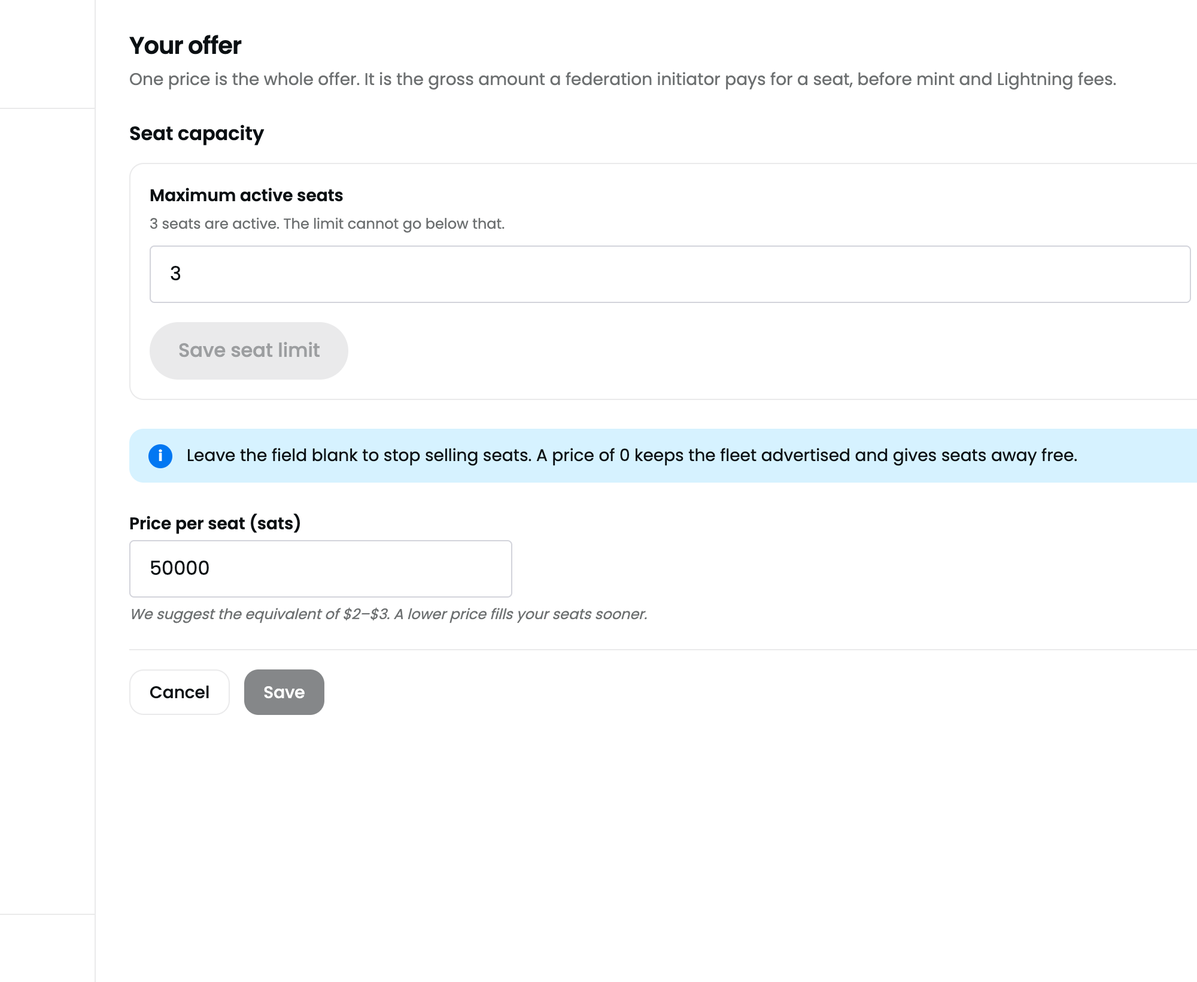
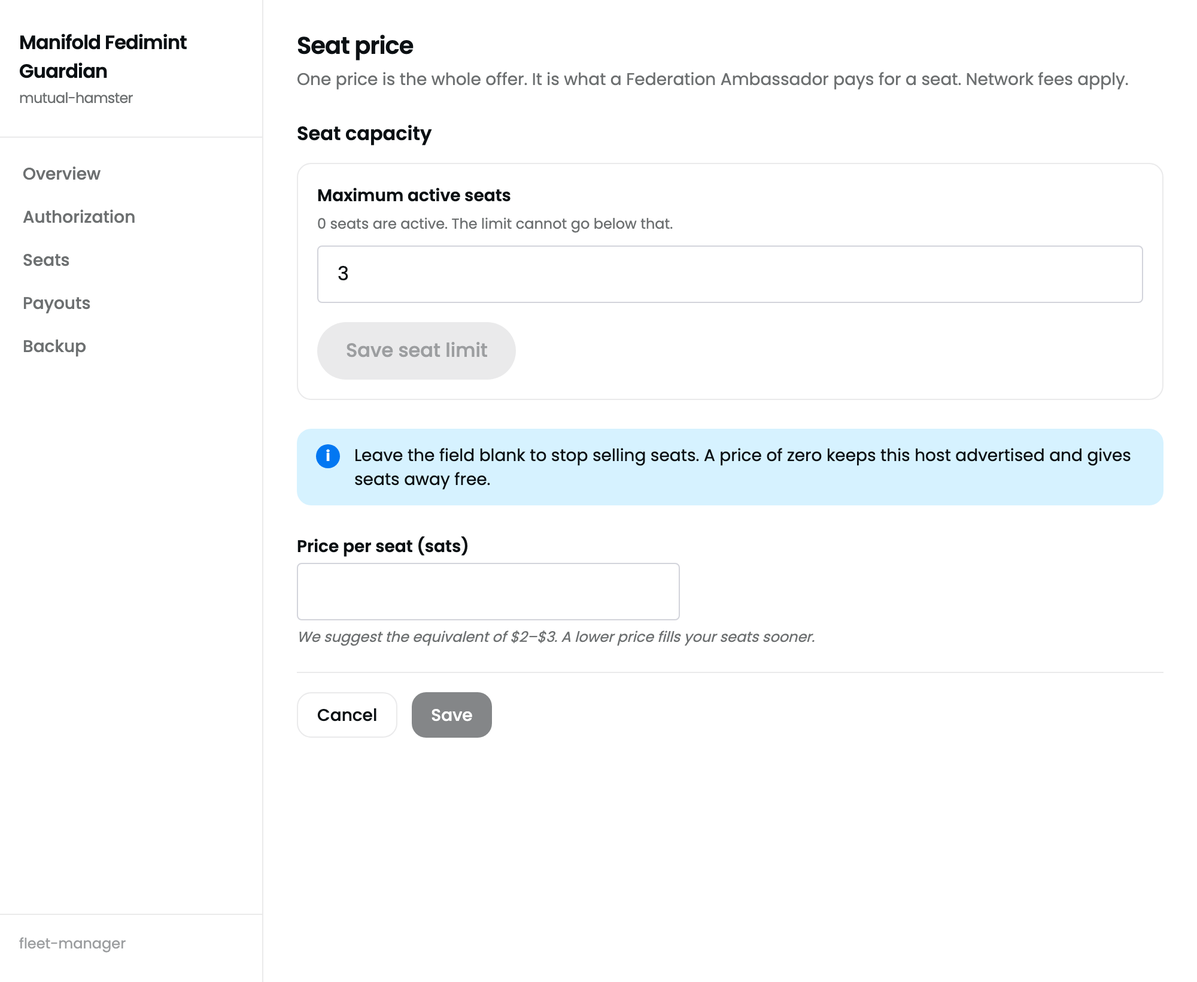
Add new images, fresh changes to guardian guide

diff --git a/guardian-guide.html b/guardian-guide.html
@@ -384,7 +384,7 @@ footer{padding:56px 0 72px;border-top:1px solid var(--line);margin-top:104px;}
   <a href="#box" class="os-minipc"><span class="num">02</span>Prepare the mini PC</a>
   <a href="#bitcoin"><span class="num">03</span>Bitcoin node</a>
   <a href="#install"><span class="num">04</span>Install</a>
-  <a href="#setup"><span class="num">05</span>Set up the fleet</a>
+  <a href="#setup"><span class="num">05</span>Set up the guardian</a>
   <a href="#discover"><span class="num">06</span>Get discovered</a>
   <a href="#earn"><span class="num">07</span>Earn</a>
   <a href="#withdraw"><span class="num">08</span>Withdraw</a>
@@ -403,11 +403,11 @@ footer{padding:56px 0 72px;border-top:1px solid var(--line);margin-top:104px;}
     <h2>Four things happen, in this order</h2>
     <p class="sec-sub">Manifold Fedimint Guardian is the guardian software behind Manifold. It runs one Fedimint guardian process per seat you sell, validates against a Bitcoin Core node on the same box (on StartOS, Bitcoin Knots works as well), and handles the selling for you. It is not a Lightning wallet, and it does not replace the Bitcoin node: it needs one.</p>
   </div>
-  <div class="call info rv"><svg viewBox="0 0 24 24" fill="none" stroke="currentColor" stroke-width="2"><circle cx="12" cy="12" r="9"/><path d="M12 8h.01M11 12h1v4h1"/></svg><div><b>Step zero: get your PeerBadge.</b> Ambassadors only see fleets that a PeerBadge holder at Trusted level or higher has authorized, and that holder is you: during setup you sign the authorization with your own badge. Get the badge before you buy hardware or start the node; the <a href="#faq">FAQ</a> says where to ask.</div></div>
+  <div class="call info rv"><svg viewBox="0 0 24 24" fill="none" stroke="currentColor" stroke-width="2"><circle cx="12" cy="12" r="9"/><path d="M12 8h.01M11 12h1v4h1"/></svg><div><b>Step zero: get your Fedi verification.</b> Ambassadors only see guardian hosts that a Fedi verification holder at Trusted level or higher has authorized, and that holder is you: during setup you sign the authorization with your own credential. Get verified before you buy hardware or start the node; the <a href="#faq">FAQ</a> says where to ask.</div></div>
   <div class="flow rv">
     <div class="f"><div class="n">1</div><h3>Prepare the box, start the node</h3><p><span class="os-minipc">umbrelOS on a mini PC with a 500 GB SSD, then Bitcoin Core.</span><span class="os-umbrel-only">Your Umbrel, then its Bitcoin Node app.</span><span class="os-startos">Your Start9 server on the latest StartOS 0.4 stable, then Bitcoin Core.</span> Its sync takes days, so it goes first and runs in the background.</p></div>
-    <div class="f"><div class="n">2</div><h3>Install and set up the guardian</h3><p>The guardian app installs from a store and holds a small fleet of guardian seats. Setup is a five screen wizard in your browser.</p></div>
-    <div class="f"><div class="n">3</div><h3>Get advertised, sell seats</h3><p>Once you have authorized your fleet with your PeerBadge and set a price, your open seats are announced on Nostr. An Ambassador in the Fedi app picks a set, pays once, and your box starts one guardian per seat sold.</p></div>
+    <div class="f"><div class="n">2</div><h3>Install and set up the guardian</h3><p>The guardian app installs from a store and holds a handful of guardian seats. Setup is a five screen wizard in your browser.</p></div>
+    <div class="f"><div class="n">3</div><h3>Get advertised, sell seats</h3><p>Once your host is approved with your Fedi verification and you have set a price, your open seats are announced on Nostr. An Ambassador in the Fedi app picks a set, pays once, and your box starts one guardian per seat sold.</p></div>
     <div class="f"><div class="n">4</div><h3>Earn and withdraw</h3><p>You receive the seat price up front and a share of that federation's transaction fees for as long as it runs. Both leave to a Lightning address from the Payouts page.</p></div>
   </div>
   <div class="call info rv"><svg viewBox="0 0 24 24" fill="none" stroke="currentColor" stroke-width="2"><circle cx="12" cy="12" r="9"/><path d="M12 8h.01M11 12h1v4h1"/></svg><div><b>Words used on this page.</b> A <b>seat</b> is one guardian slot you offer. A <b>Federation Ambassador</b> is the person creating a federation in the Fedi app (the code and the API still call them the initiator). The <b>dashboard</b> is the guardian software's own web page, served by your box. <b>The node</b> is the Bitcoin Core you run on the same box; the guardian validates against it.</div></div>
@@ -455,13 +455,13 @@ footer{padding:56px 0 72px;border-top:1px solid var(--line);margin-top:104px;}
     </div>
     <div class="card">
       <div class="ic"><svg viewBox="0 0 24 24" fill="none" stroke="currentColor" stroke-width="2"><path d="M12 3l8 4v5c0 5-3.5 8-8 9-4.5-1-8-4-8-9V7z"/><path d="M9 12l2 2 4-4"/></svg></div>
-      <h3>A PeerBadge, before anything else</h3>
-      <p>Ambassadors only see fleets whose key carries an authorization from a PeerBadge holder at Trusted level or higher, and that holder is you. The dashboard shows your fleet's public key as a QR code; you scan it with the credential app that holds your badge, and the app publishes the authorization. <b>Get your badge before you start</b>, ahead of hardware and the node; the <a href="#faq">FAQ</a> lists where to ask.</p>
+      <h3>Fedi verification, before anything else</h3>
+      <p>Ambassadors only see guardian hosts whose key carries an authorization from a Fedi verification holder at Trusted level or higher, and that holder is you. The dashboard shows your Manifold Fedimint Guardian ID as a QR code; you scan it with the Holder app that carries your credential, and the app publishes the authorization. <b>Get verified before you start</b>, ahead of hardware and the node; the <a href="#faq">FAQ</a> lists where to ask.</p>
     </div>
     <div class="card">
       <div class="ic"><svg viewBox="0 0 24 24" fill="none" stroke="currentColor" stroke-width="2"><path d="M4 20h16M6 16V8m6 8V4m6 12v-6"/></svg></div>
       <h3>Pen, paper, and patience</h3>
-      <p>The wizard shows a 12 word recovery phrase exactly once. Write it on paper before you continue: it is the entire identity of the fleet and its only backup. Plan about an hour hands on, the node sync running for days in the background, and however long the badge takes to arrive.</p>
+      <p>The wizard shows a 12 word recovery phrase exactly once. Write it on paper before you continue: it is the entire identity of this host and its only backup. Plan about an hour hands on, the node sync running for days in the background, and however long verification takes to arrive.</p>
     </div>
   </div>
 </section>
@@ -603,15 +603,11 @@ footer{padding:56px 0 72px;border-top:1px solid var(--line);margin-top:104px;}
     <li>
       <h3>Watch the sync, and know how to read it</h3>
       <p>The app's home screen shows the current <b>block height</b>, a <b>Synchronizing</b> percentage and the peers it is connected to. The percentage misleads: it is weighted by transactions, and early blocks hold almost none, so it sits under 1 percent for the first day while the block count climbs past hundreds of thousands, then races through the last years. Watch the block height instead and compare it with a public explorer such as <a href="https://mempool.space" target="_blank" rel="noopener">mempool.space</a>; when the two numbers match, the sync is done.</p>
-      <div class="shot"><img src="media/guardian-guide/bitcoin-node-gallery-1.jpg" alt="Umbrel's Bitcoin Node app, fully synchronized: block height, peers and latest blocks" width="2160" height="1350" loading="lazy"></div>
-      <p class="shot-cap"><b>What a synced node looks like.</b> Umbrel's Bitcoin Node app once it has caught up: Synchronized 100%, peer connections, latest blocks. Image from the app's store listing.</p>
     </li>
     <li>
       <h3>Know where the RPC details live</h3>
       <div class="path"><span>Bitcoin Node</span><i>&#8250;</i><span>Connect</span><i>&#8250;</i><span>Bitcoin Core RPC</span></div>
       <p>The guardian app declares Bitcoin Node as a dependency and reads the RPC connection from it, so you should not need to type anything. If the wizard ever asks, the Connect panel shows <b>Host</b>, <b>Port</b> (8332), <b>Username</b> and <b>Password</b>. The password is generated by the app and always visible here, so it cannot be lost, but a reinstall of the app generates a new one.</p>
-      <div class="shot"><img src="media/guardian-guide/bitcoin-node-gallery-2.jpg" alt="The Connect panel of Umbrel's Bitcoin Node app showing RPC username, password, host and port" width="2160" height="1350" loading="lazy"></div>
-      <p class="shot-cap"><b>The Connect panel.</b> RPC Details is the tab with the username, password, host and port. Image from the app's store listing.</p>
     </li>
     <li>
       <h3>Done when</h3>
@@ -721,7 +717,7 @@ footer{padding:56px 0 72px;border-top:1px solid var(--line);margin-top:104px;}
 <!-- 03 SETUP -->
 <section class="blk" id="setup">
   <div class="sec-head">
-    <div class="kicker">05 &#183; Set up the fleet</div>
+    <div class="kicker">05 &#183; Set up the guardian</div>
     <h2>The five screen setup wizard</h2>
     <p class="sec-sub">Setup happens once, in the dashboard. Every step is saved as you go, so a closed tab or a restarted box resumes where you left off. The same five screens on Umbrel and Start9. The dashboard still uses the technical name in a few of its own labels; read them as Manifold Fedimint Guardian.</p>
   </div>
@@ -729,41 +725,42 @@ footer{padding:56px 0 72px;border-top:1px solid var(--line);margin-top:104px;}
   <ol class="steps rv">
     <li>
       <span class="stepnum">SCREEN 1</span>
-      <h3>Choose: a new fleet, or recover one</h3>
-      <p>Two doors. <b>Start a new fleet</b> generates a fresh recovery phrase and starts with no seats. This is the usual choice. <b>Recover from your phrase</b> rebuilds a fleet whose original host is gone, from its 12 words, and brings its seats back with it.</p>
+      <h3>Choose: start fresh, or recover</h3>
+      <p>Two doors. <b>Start fresh</b> generates a fresh recovery phrase and starts with no seats. This is the usual choice. <b>Recover from your phrase</b> rebuilds a guardian host whose original box is gone, from its 12 words, and brings its seats back with it.</p>
       <p class="fine">Recovery is only offered here. Once a host is set up, the choice is made and cannot be revisited on that host.</p>
-      <div class="shot"><img src="media/guardian-guide/setup-doors.png" alt="Setup screen 1: Start a new fleet, or Recover from your phrase" width="1000" height="820" loading="lazy"></div>
+      <div class="shot"><img src="media/guardian-guide/setup-doors.png" alt="Setup screen 1: Start fresh, or Recover from your phrase" width="1000" height="820" loading="lazy"></div>
     </li>
     <li>
       <span class="stepnum">SCREEN 2</span>
       <h3>"Record your recovery phrase"</h3>
       <p>Click <b>Reveal phrase</b> and write the 12 words down on paper, in order. They are never stored in the browser, and there is no other backup: losing them loses every seat's guardian identity. Then click <b>I've written it down, continue</b>.</p>
-      <div class="call stop"><svg viewBox="0 0 24 24" fill="none" stroke="currentColor" stroke-width="2"><circle cx="12" cy="12" r="9"/><path d="M12 8v5M12 16h.01"/></svg><div><b>Do not photograph or type the phrase anywhere.</b> Anyone holding these words owns your fleet and everything it earns. You can reveal them again later from the Backup page if you need to check your copy.</div></div>
+      <div class="call stop"><svg viewBox="0 0 24 24" fill="none" stroke="currentColor" stroke-width="2"><circle cx="12" cy="12" r="9"/><path d="M12 8v5M12 16h.01"/></svg><div><b>Do not photograph or type the phrase anywhere.</b> Anyone holding these words owns your guardians and everything they earn. You can reveal them again later from the Backup page if you need to check your copy.</div></div>
       <div class="shot"><img src="media/guardian-guide/setup-phrase.png" alt="Setup screen 2: the twelve word recovery phrase" width="1000" height="820" loading="lazy"></div>
     </li>
     <li>
       <span class="stepnum">SCREEN 3</span>
-      <h3>"Get this fleet authorized"</h3>
-      <p>The screen shows a QR code and your fleet's <b>service Nostr public key</b> (a 64 character string). Ambassadors only see fleets whose key carries a PeerBadge authorization, so this step cannot be skipped.</p>
-      <p>Authorize it with your own PeerBadge: open the credential app that holds your badge, scan the QR code (or click <b>Copy the authorization request</b> and paste it into the app) and sign. Back in the wizard, click <b>Check now</b>. It does not poll in the background, so nothing happens until you click.</p>
+      <h3>"Get approved"</h3>
+      <p>The screen shows a QR code and your <b>Manifold Fedimint Guardian ID</b> (a 64 character string). Ambassadors only see guardian hosts whose ID carries a Fedi verification authorization, so this step cannot be skipped.</p>
+      <p>Approve it with your own Fedi verification: open the Holder app, scan the QR code (or click <b>Copy the authorization request</b> and paste it into the app) and sign. Back in the wizard, click <b>Check now</b>. It does not poll in the background, so nothing happens until you click.</p>
       <p class="fine">When the relay carries your authorization the status changes to "Authorization observed" and the wizard moves on to the terms by itself after two seconds.</p>
-      <div class="shot"><img src="media/guardian-guide/setup-authorization.png" alt="Setup screen 3: QR code and service Nostr public key, waiting for a holder authorization" width="1000" height="820" loading="lazy"></div>
+      <div class="shot"><img src="media/guardian-guide/setup-authorization.png" alt="Setup screen 3: QR code and Manifold Fedimint Guardian ID, waiting for an approval" width="1000" height="820" loading="lazy"></div>
     </li>
     <li>
       <span class="stepnum">SCREEN 4</span>
-      <h3>The terms</h3>
-      <p>The wizard shows the terms for running a Manifold guardian. Read them and accept to continue; the price step does not open until you have.</p>
+      <h3>"Accept the terms of service"</h3>
+      <p>The wizard shows the Fedi-Verified Guardian Terms of Service. Read them and click <b>Accept and continue</b>; the price step does not open until you have.</p>
+      <div class="shot"><img src="media/guardian-guide/setup-terms.png" alt="Setup screen 4: accept the terms of service" width="1000" height="820" loading="lazy"></div>
     </li>
     <li>
       <span class="stepnum">SCREEN 5</span>
       <h3>"Set your price"</h3>
       <p><b>Maximum active seats</b> is prefilled with the RAM based recommendation; lower it if the box does other work. <b>Price per seat (sats)</b> is the whole offer: the gross amount an Ambassador pays for one seat, before mint and Lightning fees. The dashboard suggests the equivalent of $2 to $3; a lower price fills seats sooner.</p>
       <p>Click <b>Finish setup</b>. Leaving the price blank finishes setup without selling anything; you can set a price any time from the Overview.</p>
-      <div class="call info"><svg viewBox="0 0 24 24" fill="none" stroke="currentColor" stroke-width="2"><circle cx="12" cy="12" r="9"/><path d="M12 7v5l3 2"/></svg><div><b>Expect "Loading…" for about two minutes after this step.</b> The fleet joins the network's shared setup payment federation, the one Ambassadors pay you through, and scans its history once. It only happens the first time.</div></div>
-      <div class="shot"><img src="media/guardian-guide/setup-price.png" alt="Setup screen 4: maximum active seats and price per seat" width="1000" height="820" loading="lazy"></div>
+      <div class="call info"><svg viewBox="0 0 24 24" fill="none" stroke="currentColor" stroke-width="2"><circle cx="12" cy="12" r="9"/><path d="M12 7v5l3 2"/></svg><div><b>Expect "Loading…" for about two minutes after this step.</b> The host joins the network's shared setup payment federation, the one Ambassadors pay you through, and scans its history once. It only happens the first time.</div></div>
+      <div class="shot"><img src="media/guardian-guide/setup-price.png" alt="Setup screen 5: maximum active seats and price per seat" width="1000" height="820" loading="lazy"></div>
     </li>
   </ol>
-  <div class="call ok rv"><svg viewBox="0 0 24 24" fill="none" stroke="currentColor" stroke-width="2"><path d="M20 6 9 17l-5-5"/></svg><div><b>You are set up.</b> The dashboard now opens on the Overview with six pages in the left menu: Overview, Authorization, Seats, Wallet, Payouts and Backup. Your fleet has a two word name (for example <i>cranked-bonobo</i>) that Ambassadors and support can recognise it by; it is shown top left and on the Backup page.</div></div>
+  <div class="call ok rv"><svg viewBox="0 0 24 24" fill="none" stroke="currentColor" stroke-width="2"><path d="M20 6 9 17l-5-5"/></svg><div><b>You are set up.</b> The dashboard now opens on the Overview with five pages in the left menu: Overview, Authorization, Seats, Payouts and Backup. Your host has a two word name (for example <i>cranked-bonobo</i>) that Ambassadors and support can recognise it by; it is shown top left and as <b>Host name</b> on the Backup page.</div></div>
   <div class="shot rv"><img src="media/guardian-guide/overview-fresh.png" alt="Overview right after setup: nothing sold yet" width="1000" height="820" loading="lazy"></div>
   <p class="shot-cap"><b>Overview right after setup.</b> Zero everywhere is normal. The next section is about getting from here to the first sale.</p>
 </section>
@@ -773,15 +770,15 @@ footer{padding:56px 0 72px;border-top:1px solid var(--line);margin-top:104px;}
   <div class="sec-head">
     <div class="kicker">06 &#183; Get discovered</div>
     <h2>Three conditions</h2>
-    <p class="sec-sub">A fleet is invisible to Ambassadors until it has an authorization, a price, and a wallet that can receive payment. The dashboard shows all three. Then the software publishes your advertisement and keeps it fresh on its own.</p>
+    <p class="sec-sub">A host is invisible to Ambassadors until it has an authorization, a price, and a payment federation it can be paid through. The dashboard shows all three. Then the software publishes your advertisement and keeps it fresh on its own.</p>
   </div>
   <ul class="check rv">
-    <li><b>Authorization observed.</b> Open <b>Authorization</b> in the left menu. It should list at least one holder under "Observed holders". This is the badge from screen 3.</li>
-    <li><b>A price is set.</b> The Overview's "Your offer" card shows a price per seat rather than "Not selling seats". Change it any time with <b>Change price</b>.</li>
-    <li><b>The wallet can receive.</b> Open <b>Wallet</b>. At least one payment federation should be listed. You did not add it and cannot remove it: membership follows the network's published setup payment policy, and the fleet joins automatically.</li>
+    <li><b>Authorization observed.</b> Open <b>Authorization</b> in the left menu. It should list at least one approver under "Approved by". This is the approval from screen 3.</li>
+    <li><b>A price is set.</b> The Overview's "Seat price" card shows a price per seat rather than "Not selling seats". Change it any time with <b>Change price and seats</b>.</li>
+    <li><b>A payment federation is listed.</b> Open <b>Payouts</b> and look under <b>Seat sales</b>. At least one payment federation should be listed as accepting payments. You did not add it and cannot remove it: membership follows the network's published setup payment policy, and the host joins automatically.</li>
     <li><b>Confirm.</b> The Overview banner reads <b>Advertised and healthy</b>. That is the whole check. Anyone can additionally see your advertisement (a kind 37701 Nostr event) published from your service Nostr key on the Manifold relay.</li>
   </ul>
-  <div class="call warn rv"><svg viewBox="0 0 24 24" fill="none" stroke="currentColor" stroke-width="2"><path d="M12 9v4M12 17h.01M10.3 3.9 2.6 17.5A2 2 0 0 0 4.3 20.5h15.4a2 2 0 0 0 1.7-3L13.7 3.9a2 2 0 0 0-3.4 0z"/></svg><div><b>Still not advertised after a few minutes?</b> The loop runs every 30 minutes, and a cycle that fires while the wallet is still opening (about three minutes after a start) is skipped silently. Wait until the Wallet page shows the federation, then restart the app once (<span class="os-umbrel">Umbrel: the app tile's <b>&#8943;</b> menu &#8250; <b>Restart</b></span><span class="os-startos">StartOS: <b>Stop</b> the service, then <b>Start</b> it again</span>); a restart publishes immediately.</div></div>
+  <div class="call warn rv"><svg viewBox="0 0 24 24" fill="none" stroke="currentColor" stroke-width="2"><path d="M12 9v4M12 17h.01M10.3 3.9 2.6 17.5A2 2 0 0 0 4.3 20.5h15.4a2 2 0 0 0 1.7-3L13.7 3.9a2 2 0 0 0-3.4 0z"/></svg><div><b>Still not advertised after a few minutes?</b> The loop runs every 30 minutes, and a cycle that fires while the wallet is still opening (about three minutes after a start) is skipped silently. Wait until Payouts lists the federation under Seat sales, then restart the app once (<span class="os-umbrel">Umbrel: the app tile's <b>&#8943;</b> menu &#8250; <b>Restart</b></span><span class="os-startos">StartOS: <b>Stop</b> the service, then <b>Start</b> it again</span>); a restart publishes immediately.</div></div>
 </section>
 
 <!-- 05 EARN -->
@@ -789,17 +786,17 @@ footer{padding:56px 0 72px;border-top:1px solid var(--line);margin-top:104px;}
   <div class="sec-head">
     <div class="kicker">07 &#183; Earn</div>
     <h2>What happens when someone buys your seat</h2>
-    <p class="sec-sub">You do nothing. Ambassadors pick, pay and form the federation from the Fedi app; the fleet accepts, starts a guardian and reports. Here is what you will see, and where the money comes from.</p>
+    <p class="sec-sub">You do nothing. Ambassadors pick, pay and form the federation from the Fedi app; the host accepts, starts a guardian and reports. Here is what you will see, and where the money comes from.</p>
   </div>
   <ol class="steps rv">
     <li>
       <h3>An Ambassador assembles a guardian set</h3>
-      <p>In the Fedi app the Ambassador opens Wallets, taps Create, and the app assembles a set of guardians from advertised fleets: cheapest first, then most free slots. One Ambassador buys at most one seat from your fleet per federation.</p>
+      <p>In the Fedi app the Ambassador opens Wallets, taps Create, and the app assembles a set of guardians from advertised guardian hosts: cheapest first, then most free slots. One Ambassador buys at most one seat from your host per federation.</p>
     </li>
     <li>
       <h3>They pay once, for the whole set</h3>
-      <p>The Ambassador pays the total in ecash through the shared setup payment federation. Your fleet receives your seat price, gross, before mint and Lightning fees. Every offered seat accepts automatically once a valid payment lands; there is no approval step and no "create seat" button on your side.</p>
-      <p class="fine">The Overview counts this as an accepted payment claim, which is not yet the same as a settled payment. The fleet reconciles the claim in the background and the Wallet balance follows.</p>
+      <p>The Ambassador pays the total in ecash through the shared setup payment federation. Your host receives your seat price, gross, before mint and Lightning fees. Every offered seat accepts automatically once a valid payment lands; there is no approval step and no "create seat" button on your side.</p>
+      <p class="fine">The Overview counts this as an accepted payment claim, which is not yet the same as a settled payment. The host reconciles the claim in the background and the Held in federations tile follows.</p>
     </li>
     <li>
       <h3>A seat appears and forms the federation</h3>
@@ -812,7 +809,7 @@ footer{padding:56px 0 72px;border-top:1px solid var(--line);margin-top:104px;}
     </li>
   </ol>
   <div class="shot rv"><img src="media/guardian-guide/overview-earnings.png" alt="Overview with seat sales and guardian fees over several days" width="1000" height="993" loading="lazy"></div>
-  <p class="shot-cap"><b>Overview with revenue.</b> The four tiles are Wallet balance, Earned all time, Seat sales and Guardian fees. Everything is gross. The Earnings list groups seat sales and fee remittances by day. A dash means the fleet could not read that figure yet, not that it is zero.</p>
+  <p class="shot-cap"><b>Overview with revenue.</b> The four tiles are Held in federations, Earned all time, Seat sales all time and Guardian fees all time. Everything is gross. The Earnings list groups seat sales and fee remittances by day. A dash means the host could not read that figure yet, not that it is zero.</p>
   
 </section>
 
@@ -820,31 +817,31 @@ footer{padding:56px 0 72px;border-top:1px solid var(--line);margin-top:104px;}
 <section class="blk" id="withdraw">
   <div class="sec-head">
     <div class="kicker">08 &#183; Withdraw</div>
-    <h2>Payouts: one destination, two kinds of revenue</h2>
-    <p class="sec-sub">Payouts is the only page where money leaves the fleet. It is ordered the way the software is: destination first, then seat sales, then guardian fees. A sweep always sends the largest amount the wallet can economically fund, through a gateway the software selects. There is no amount to type and no gateway to pick.</p>
+    <h2>Payouts: one address, two kinds of revenue</h2>
+    <p class="sec-sub">Payouts is the only page where money leaves the host. It is ordered the way the software is: payout address first, then seat sales, then guardian fees. A withdrawal always sends the largest amount the wallet can economically fund, through a gateway the software selects. There is no amount to type and no gateway to pick.</p>
   </div>
   <ol class="steps rv">
     <li>
-      <h3>Save a payout destination</h3>
-      <p>In the <b>Payout destination</b> card, paste a <b>Lightning address or LNURL-pay</b> link (for example <code>you@wallet.example</code>) and click <b>Save destination</b>. Every sweep reuses it. A bolt11 invoice is refused because it can only be paid once.</p>
+      <h3>Save a payout address</h3>
+      <p>In the <b>Payout address</b> card, paste a <b>Lightning address or LNURL-pay</b> link (for example <code>you@wallet.example</code>) and click <b>Save address</b>. Every withdrawal reuses it. A bolt11 invoice is refused because it can only be paid once.</p>
       
     </li>
     <li>
-      <h3>Sweep seat sales</h3>
-      <p>The <b>Seat sales</b> table lists each payment federation your fleet has been paid through, with its balance. Click <b>Sweep</b> on a row. A small residue can stay behind when notes cannot cover the fees; that is expected and it is swept with the next sale.</p>
+      <h3>Withdraw seat sales</h3>
+      <p>The <b>Seat sales</b> table lists each payment federation your host has been paid through, with its balance. Click <b>Withdraw</b> on a row. A small residue can stay behind when notes cannot cover the fees; that is expected and it goes out with the next sale.</p>
     </li>
     <li>
-      <h3>Collect, then send guardian fees</h3>
-      <p>Guardian fees take two clicks per seat, because the money first has to be released from the federation's fee pool into ordinary ecash: <b>1. Collect out of the pool</b>, then <b>2. Send to destination</b>. Part of a collection can stay locked until the federation's next cycle; the dashboard shows it as awaiting the cycle and you collect it next time.</p>
-      <p class="fine">Collecting works without a destination, since it moves money inside the fleet. Sending does not.</p>
+      <h3>Collect, then withdraw guardian fees</h3>
+      <p>Guardian fees take two clicks per seat, because the money first has to be released from the federation's fee pool into ordinary ecash: <b>1. Collect fees</b>, then <b>2. Withdraw</b>. Part of a collection can stay locked until the federation's next cycle; the dashboard shows it as awaiting the cycle and you collect it next time.</p>
+      <p class="fine">Collecting works without a payout address, since it moves money inside the host. Withdrawing does not.</p>
     </li>
     <li>
       <h3>Keep the operation id</h3>
-      <p>Each sweep shows an operation id with a copy button. It is the reference support will ask for if a payment needs tracing. The <b>Wallet</b> page stays read only: balances per payment federation, nothing to configure.</p>
+      <p>Each withdrawal shows an operation id with a copy button. It is the reference support will ask for if a payment needs tracing.</p>
     </li>
   </ol>
-  <div class="shot rv"><img src="media/guardian-guide/payouts.png" alt="Payouts page: payout destination, seat sales sweep, guardian fee collect and send" width="1000" height="1193" loading="lazy"></div>
-  <p class="shot-cap"><b>Payouts with revenue on both sides.</b> Destination at the top, then per federation seat sales, then per seat guardian fees with their two step buttons.</p>
+  <div class="shot rv"><img src="media/guardian-guide/payouts.png" alt="Payouts page: payout address, seat sales withdrawal, guardian fee collect and withdraw" width="1000" height="1193" loading="lazy"></div>
+  <p class="shot-cap"><b>Payouts with revenue on both sides.</b> Payout address at the top, then per federation seat sales, then per seat guardian fees with their two step buttons.</p>
 </section>
 
 <!-- 07 MAINTAIN -->
@@ -854,16 +851,16 @@ footer{padding:56px 0 72px;border-top:1px solid var(--line);margin-top:104px;}
     <h2>A guardian's only job is to stay up</h2>
     <p class="sec-sub">Every running seat is one of the guardians a real federation depends on. Nothing needs daily attention, but these five things are yours to own.</p>
     <div class="grid">
-      <div class="g"><span class="num">01</span><h3>Updates are manual, and due the day the network asks</h3><p><span class="os-umbrel">Umbrel shows an Update button on the app once the store has a new version.</span><span class="os-startos">Download the new .s9pk from the releases page and sideload it again.</span> When the network names a newer release than yours, the dashboard takes the screen over with a notice; out of date fleets show up in the app as "not enough guardians" or "unauthorized request". Data survives updates, not uninstall.</p></div>
+      <div class="g"><span class="num">01</span><h3>Updates are manual, and due the day the network asks</h3><p><span class="os-umbrel">Umbrel shows an Update button on the app once the store has a new version.</span><span class="os-startos">Download the new .s9pk from the releases page and sideload it again.</span> When the network names a newer release than yours, the dashboard takes the screen over with a notice; out of date hosts show up in the app as "not enough guardians" or "unauthorized request". Data survives updates, not uninstall.</p></div>
       <div class="g"><span class="num">02</span><h3>Keep the node synced</h3><p>The guardian is only as current as its Bitcoin node. The Bitcoin Node app updates like any other app, and after an outage it catches up by itself. If a federation reports trouble, check the block height against mempool.space before anything else.</p></div>
-      <div class="g"><span class="num">03</span><h3>The 12 words are the whole backup</h3><p>Every key is derived from them and your seat records are published, encrypted, to the relay. The Backup page shows your fleet name, keys, and a Reveal recovery phrase link. Nothing else to export.</p></div>
+      <div class="g"><span class="num">03</span><h3>The 12 words are the whole backup</h3><p>Every key is derived from them and your seat records are published, encrypted, to the relay. The Backup page shows your host name, keys, and a Reveal recovery phrase link. Nothing else to export.</p></div>
       <div class="g"><span class="num">04</span><h3>One phrase, one host</h3><p>Recovery is only possible while setting up a fresh host ("Recover from your phrase"). Never run two boxes from the same words: two guardians with one identity would contradict each other and break the federation.</p></div>
       <div class="g"><span class="num">05</span><h3>Change price and capacity any time</h3><p>Overview &#8250; Change price. A blank price stops selling; 0 gives seats away and keeps you advertised. Seat capacity is on the same page and can never go below the seats already active.</p></div>
     </div>
   </div>
   <div class="shots2 rv">
-    <div><div class="shot" style="margin-top:0;"><img src="media/guardian-guide/backup.png" alt="Backup page: fleet name, keys, reveal recovery phrase" width="1000" height="820" loading="lazy"></div><p class="shot-cap"><b>Backup.</b> Name, service key, service Nostr key, and the phrase behind a deliberate extra click.</p></div>
-    <div><div class="shot" style="margin-top:0;"><img src="media/guardian-guide/offer.png" alt="Your offer page: seat capacity and price per seat" width="1000" height="820" loading="lazy"></div><p class="shot-cap"><b>Your offer.</b> Seat capacity and price are saved separately; each change re-issues the offer to Ambassadors.</p></div>
+    <div><div class="shot" style="margin-top:0;"><img src="media/guardian-guide/backup.png" alt="Backup page: host name, keys, reveal recovery phrase" width="1000" height="820" loading="lazy"></div><p class="shot-cap"><b>Backup.</b> Name, service key, service Nostr key, and the phrase behind a deliberate extra click.</p></div>
+    <div><div class="shot" style="margin-top:0;"><img src="media/guardian-guide/offer.png" alt="Seat price page: seat capacity and price per seat" width="1000" height="820" loading="lazy"></div><p class="shot-cap"><b>Seat price.</b> Seat capacity and price are saved separately; each change re-issues the offer to Ambassadors.</p></div>
   </div>
 </section>
 
@@ -877,13 +874,13 @@ footer{padding:56px 0 72px;border-top:1px solid var(--line);margin-top:104px;}
   <div class="trouble rv">
     <div class="r h"><span>What you see</span><span>Why</span><span>What to do</span></div>
     <div class="r"><b>"Loading…" for minutes right after setup</b><span>First join of the setup payment federation scans its whole history.</span><span>Wait. About two minutes, once only.</span></div>
-    <div class="r"><b>Price set, but no "Advertised and healthy"</b><span>The advertisement loop skipped a cycle while the wallet was still opening, and nothing wakes it.</span><span>Check Wallet lists a federation, then restart the app once. <span class="os-umbrel">Umbrel: app &#8943; &#8250; Restart.</span><span class="os-startos">StartOS: Stop, then Start.</span></span></div>
-    <div class="r"><b>Authorization never observed</b><span>The authorization was signed over a different key, or the relay read has not been repeated.</span><span>Compare the full key on the Authorization page with the one your credential app scanned. Click Check now; setup never polls by itself.</span></div>
-    <div class="r"><b>A dash instead of a number on the Overview</b><span>The fleet could not read that account yet (a seat still forming has no fee account).</span><span>Nothing. A dash is "unknown", not zero. It fills in once the seat is running.</span></div>
-    <div class="r"><b>Sweep button greyed out</b><span>No payout destination saved, or that wallet holds nothing.</span><span>Save a Lightning address in the card at the top of Payouts, then retry.</span></div>
-    <div class="r"><b>"Send to destination" greyed out on a seat</b><span>Fees are still in the pool; only collected ecash can be sent.</span><span>Click 1. Collect out of the pool first. Locked deposits release at the next cycle.</span></div>
-    <div class="r"><b>App crash loops after an update with a migration error</b><span>The new build's database schema is incompatible with the data on disk (release notes flag these).</span><span>Uninstall, reinstall, and choose Recover from your phrase on the first setup screen; the fleet and its seats come back from the 12 words.</span></div>
-    <div class="r"><b>Ambassadors see "not enough guardians" or "unauthorized request"</b><span>Version skew between fleets, the app and the network.</span><span>Update the fleet to the current release (see Keep it running).</span></div>
+    <div class="r"><b>Price set, but no "Advertised and healthy"</b><span>The advertisement loop skipped a cycle while the wallet was still opening, and nothing wakes it.</span><span>Check that Payouts lists a federation under Seat sales, then restart the app once. <span class="os-umbrel">Umbrel: app &#8943; &#8250; Restart.</span><span class="os-startos">StartOS: Stop, then Start.</span></span></div>
+    <div class="r"><b>Authorization never observed</b><span>The authorization was signed over a different key, or the relay read has not been repeated.</span><span>Compare the full key on the Authorization page with the one your Holder app scanned. Click Check now; setup never polls by itself.</span></div>
+    <div class="r"><b>A dash instead of a number on the Overview</b><span>The host could not read that account yet (a seat still forming has no fee account).</span><span>Nothing. A dash is "unknown", not zero. It fills in once the seat is running.</span></div>
+    <div class="r"><b>Withdraw button greyed out</b><span>No payout address saved, or that federation holds nothing.</span><span>Save a Lightning address in the card at the top of Payouts, then retry.</span></div>
+    <div class="r"><b>Withdraw greyed out on a seat</b><span>Fees are still in the pool; only collected fees can be withdrawn.</span><span>Click Collect fees first. Locked deposits release at the next cycle.</span></div>
+    <div class="r"><b>App crash loops after an update with a migration error</b><span>The new build's database schema is incompatible with the data on disk (release notes flag these).</span><span>Uninstall, reinstall, and choose Recover from your phrase on the first setup screen; the host and its seats come back from the 12 words.</span></div>
+    <div class="r"><b>Ambassadors see "not enough guardians" or "unauthorized request"</b><span>Version skew between guardian hosts, the app and the network.</span><span>Update the host to the current release (see Keep it running).</span></div>
     <div class="r os-umbrel"><b><code>[object Object]</code> error before the wizard</b><span>Frontend rendering bug on the pre setup screen.</span><span>Ignore or reload. The wizard still works.</span></div>
     <div class="r os-startos"><b>Sideload page: "alerts is undefined"</b><span>StartOS 0.4.0 beta.</span><span>System &#8250; Software Update to 0.4.0 stable or later.</span></div>
     <div class="r os-startos"><b>Open button leads to a dead 127.0.0.1 link</b><span>You are browsing StartOS from the server itself.</span><span>Use the interface's Local address entry instead.</span></div>
@@ -906,14 +903,14 @@ footer{padding:56px 0 72px;border-top:1px solid var(--line);margin-top:104px;}
     <h2>Questions people ask before they start</h2>
   </div>
   <div class="faq rv">
-    <details><summary>Do I need a public IP address, a domain, or a certificate?</summary><div class="a">No, and by design you never will. Ambassadors reach your fleet over hole punched connections with public relays as fallback, your advertisement goes out over Nostr, and the dashboard is either behind Umbrel's login or protected by StartOS's generated password. Forwarding UDP 31000 to 31031 is optional and only improves direct connections.</div></details>
+    <details><summary>Do I need a public IP address, a domain, or a certificate?</summary><div class="a">No, and by design you never will. Ambassadors reach your host over hole punched connections with public relays as fallback, your advertisement goes out over Nostr, and the dashboard is either behind Umbrel's login or protected by StartOS's generated password. Forwarding UDP 31000 to 31031 is optional and only improves direct connections.</div></details>
     <details><summary>Do I need to run Bitcoin Core or Lightning?</summary><div class="a">Bitcoin Core yes (Bitcoin Knots works as well), Lightning no. A mainnet guardian validates against your own Bitcoin node on the same box, pruned or full; <a href="#bitcoin">Bitcoin node</a> covers it, and its sync is the longest step of the setup. A Lightning node is never required; payouts go to any Lightning address you already have.</div></details>
     <details><summary>Can I choose which federations I host?</summary><div class="a">No. You set a price and a seat count; Ambassadors choose you. Every offered seat accepts automatically once a valid payment lands. If you want to stop being chosen, clear the price on the Overview.</div></details>
     <details><summary>How much will I earn?</summary><div class="a">Two things: the seat price you set, paid once per seat sold, and one share of the federation's transaction fees for as long as it runs. The dashboard suggests a seat price around the equivalent of $2 to $3. Fee income depends entirely on how much the federation's members transact, so no number is promised here.</div></details>
-    <details><summary>What if I lose the 12 words?</summary><div class="a">While the box runs, nothing changes and you can reveal the phrase again from Backup. If the box dies and you do not have the words, the fleet and its seats cannot be recovered. Write them down before continuing past screen 2.</div></details>
-    <details><summary>Can I move my fleet to a new box?</summary><div class="a">Yes: set the new box up, choose "Recover from your phrase" on screen 1, and the seats rebuild from the encrypted records the fleet published to the relay. Turn the old box off first. Two hosts with one identity would contradict each other.</div></details>
-    <details><summary>Can I run more than one fleet, or raise the seat count later?</summary><div class="a">One fleet per box and per phrase. The seat limit is adjustable at any time on the Your offer page (or with <code>fman-cli capacity set N</code>); it just cannot drop below the seats already active.</div></details>
-    <details><summary>Where do I get help?</summary><div class="a">For the Umbrel app, the package's issue tracker at <a href="https://github.com/fedibtc/manifold-umbrel-store/issues" target="_blank" rel="noopener">github.com/fedibtc/manifold-umbrel-store/issues</a>. For the StartOS package, <a href="https://github.com/fedibtc/manifold-fman-startos/issues" target="_blank" rel="noopener">github.com/fedibtc/manifold-fman-startos/issues</a>. For everything else, including getting a PeerBadge, <a href="https://fedi.xyz" target="_blank" rel="noopener">fedi.xyz</a>.</div></details>
+    <details><summary>What if I lose the 12 words?</summary><div class="a">While the box runs, nothing changes and you can reveal the phrase again from Backup. If the box dies and you do not have the words, the host and its seats cannot be recovered. Write them down before continuing past screen 2.</div></details>
+    <details><summary>Can I move my guardians to a new box?</summary><div class="a">Yes: set the new box up, choose "Recover from your phrase" on screen 1, and the seats rebuild from the encrypted records the host published to the relay. Turn the old box off first. Two hosts with one identity would contradict each other.</div></details>
+    <details><summary>Can I run more than one host, or raise the seat count later?</summary><div class="a">One host per box and per phrase. The seat limit is adjustable at any time on the Seat price page (or with <code>fman-cli capacity set N</code>); it just cannot drop below the seats already active.</div></details>
+    <details><summary>Where do I get help?</summary><div class="a">For the Umbrel app, the package's issue tracker at <a href="https://github.com/fedibtc/manifold-umbrel-store/issues" target="_blank" rel="noopener">github.com/fedibtc/manifold-umbrel-store/issues</a>. For the StartOS package, <a href="https://github.com/fedibtc/manifold-fman-startos/issues" target="_blank" rel="noopener">github.com/fedibtc/manifold-fman-startos/issues</a>. For everything else, including getting Fedi verification, <a href="https://fedi.xyz" target="_blank" rel="noopener">fedi.xyz</a>.</div></details>
   </div>
 </section>
 
